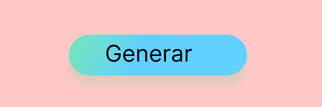
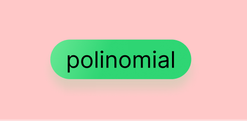
interpolacion changes

Changed region(s): [[0.1984, 0.3084, 0.7935, 0.729]]

diff --git a/interpolacion.py b/interpolacion.py
@@ -1,5 +1,13 @@
 from pathlib import Path
-from tkinter import Tk, Canvas, Entry, Text, Button, PhotoImage, Label
+from tkinter import Tk, Canvas, Entry, Text, Button, PhotoImage
+
+from matplotlib.backends.backend_tkagg import FigureCanvasTkAgg
+from matplotlib.figure import Figure
+import tkinter as tk
+import numpy as np
+import sympy as sp
+from modulos.interpolacion_module import  Poly, Pol_simple_2, minimos_cuadrados, langrange_polinomio
+
 
 class Interpolacion:
     def __init__(self, root: Tk, assets_path: Path):
@@ -9,9 +17,23 @@ class Interpolacion:
         self.root.configure(bg="#FFC7C7")
         self.canvas = self.create_canvas()
         self.images = {}
-        self.buttons = self.create_buttons()
         self.entries = self.create_entries()
+        self.buttons = self.create_buttons()
         self.texts = self.create_texts()
+        self.canvas_images = self.create_images()
+
+        # new
+        self.figure = Figure(figsize=(5, 3), dpi=100)
+        self.figure_canvas = FigureCanvasTkAgg(self.figure, self.root)
+
+        # place the canvas on the right side of the window
+        self.figure_canvas.get_tk_widget().place(x=81, y=320)
+
+        self.canvas_images = self.create_images()
+
+        # text
+        self.solution_label = tk.Label(self.root, text="", bg="#FFC7C7")
+        self.solution_label.place(x=100, y=210)
 
     def create_canvas(self) -> Canvas:
         canvas = Canvas(
@@ -40,10 +62,9 @@ class Interpolacion:
 
     def create_buttons(self):
         buttons = {
-            "button_1": self.create_button("button_1.png", 5.0, 397.0, 322.0, 107.0, lambda: print("button_1 clicked")),
-            "button_2": self.create_button("button_2.png", 7.0, 271.0, 247.0, 121.078125, lambda: print("button_2 clicked")),
-            "button_3": self.create_button("button_3.png", 260.0, 269.0, 247.0, 121.078125, lambda: print("button_3 clicked")),
-            "button_4": self.create_button("button_4.png", 513.0, 266.0, 247.0, 121.078125, lambda: print("button_4 clicked")),
+            "polinomial": self.create_button("button_1.png", 724.0, 91.0, 247.0, 121.078125, self.handlePolinomial),
+            "minimos": self.create_button("button_2.png", 727.0, 243.0, 247.0, 121.078125, self.handleMinimos),
+            "lagrange": self.create_button("button_3.png", 727.0, 390.0, 247.0, 121.078125, self.handleLagrage),
         }
         return buttons
 
@@ -61,23 +82,145 @@ class Interpolacion:
 
     def create_entries(self):
         entries = {
-            "entry_1": self.create_entry("entry_1.png", 369.0, 157.5, 174.0, 31.0),
-            "entry_2": self.create_entry("entry_2.png", 453.0, 233.5, 202.0, 31.0),
+            "entry_1": self.create_entry("entry_1.png", 453.0, 155.5, 202.0, 31.0),
+            "entry_2": self.create_entry("entry_2.png", 190.0, 697.5, 202.0, 31.0),
+            "entry_3": self.create_entry("entry_3.png", 453.0, 233.5, 202.0, 31.0),
         }
         return entries
 
     def create_text(self, x: float, y: float, text: str, font: str) -> None:
-        self.canvas.create_text(x, y, anchor="nw", text=text, fill="#000000", font=(font, 23))
+        self.canvas.create_text(x, y, anchor="nw", text=text, fill="#000000", font=(font, 32 * -1))
 
     def create_texts(self):
         self.create_text(320.0, 25.0, "Interpolacion y ajuste", "InriaSans Regular")
-        self.create_text(25.0, 136.0, "Datos dependientes:", "InriaSans Regular")
-        self.create_text(25.0, 212.0, "Datos independientes:", "InriaSans Regular")
+        self.create_text(81.0, 137.0, "dependientes:", "InriaSans Regular")
+        self.create_text(81.0, 212.0, "independientes:", "InriaSans Regular")
+
+    def create_image(self, image_file: str, x: float, y: float) -> int:
+        image = self.get_image(image_file)
+        return self.canvas.create_image(x, y, image=image)
+
+    def create_images(self):
+        images = {
+            "image_1": self.create_image("image_1.png", 1073.0, 725.0),
+            "image_2": self.create_image("image_2.png", 1096.0, 512.0),
+            "image_3": self.create_image("image_3.png", 1047.0, 106.0),
+            "image_4": self.create_image("image_4.png", 97.0, 30.0),
+            "image_5": self.create_image("image_5.png", 77.0, 796.0),
+        }
+        return images
 
     def get_image(self, image_file: str) -> PhotoImage:
         if image_file not in self.images:
             self.images[image_file] = PhotoImage(file=self.relative_to_assets(image_file))
         return self.images[image_file]
+
+    def handlePolinomial(self):
+        # get the values from the entries
+        x_data_str = self.entries["entry_1"].get("1.0", "end-1c")
+        y_data_str = self.entries["entry_2"].get("1.0", "end-1c")
+
+        # check if the entries are empty or end with a comma
+        # check if the entries are empty or end with a comma
+        if not x_data_str.strip() or not y_data_str.strip() or x_data_str.strip().endswith(
+                ',') or y_data_str.strip().endswith(','):
+            print("Error: Invalid entry")
+            return
+
+        # convert the entries to appropriate types
+        x_data = list(map(float, x_data_str.split(',')))
+        y_data = list(map(float, y_data_str.split(',')))
+
+        # apply the polynomial interpolation method
+        a_i = Pol_simple_2(x_data, y_data)
+
+        # clear the current plot
+        self.figure.clear()
+
+        # prepare data
+        ux = np.linspace(min(x_data), max(x_data), 100)
+        poly_values = Poly(a_i, ux)
+
+        # create axes
+        axes = self.figure.add_subplot()
+
+        # create the plot
+        axes.plot(x_data, y_data, 'vr', label='Datos O')
+        axes.plot(ux, poly_values, 'b', label='Polinomio')
+
+        # draw the graph
+        self.figure_canvas.draw()
+
+    def handleMinimos(self):
+        # get the values from the entries
+        x_data_str = self.entries["entry_1"].get("1.0", "end-1c")
+        y_data_str = self.entries["entry_2"].get("1.0", "end-1c")
+
+        # check if the entries are empty or end with a comma
+        if not x_data_str or not y_data_str or x_data_str.endswith(',') or y_data_str.endswith(','):
+            print("Error: Invalid entry")
+            return
+
+        # convert the entries to appropriate types
+        x_data = list(map(float, x_data_str.split(',')))
+        y_data = list(map(float, y_data_str.split(',')))
+
+        # apply the least squares method
+        a0, a1 = minimos_cuadrados(np.array(x_data), np.array(y_data))
+
+        # clear the current plot
+        self.figure.clear()
+
+        # prepare data
+        ux = np.linspace(min(x_data), max(x_data), 100)
+        poly_values = a0 + a1 * ux
+
+        # create axes
+        axes = self.figure.add_subplot()
+
+        # create the plot
+        axes.plot(x_data, y_data, 'vr', label='Datos O')
+        axes.plot(ux, poly_values, 'b', label='Ajuste lineal')
+
+        # draw the graph
+        self.figure_canvas.draw()
+
+    def handleLagrage(self):
+        # get the values from the entries
+        x_data_str = self.entries["entry_1"].get("1.0", "end-1c")
+        y_data_str = self.entries["entry_2"].get("1.0", "end-1c")
+
+        # check if the entries are empty or end with a comma
+        if not x_data_str or not y_data_str or x_data_str.endswith(',') or y_data_str.endswith(','):
+            print("Error: Invalid entry")
+            return
+
+        # convert the entries to appropriate types
+        x_data = list(map(float, x_data_str.split(',')))
+        y_data = list(map(float, y_data_str.split(',')))
+
+        # construct the Lagrange interpolating polynomial
+        P = langrange_polinomio(x_data, y_data)
+        P_lambdified = sp.lambdify('x', P)
+
+        # clear the current plot
+        self.figure.clear()
+
+        # prepare data
+        ux = np.linspace(min(x_data), max(x_data), 100)
+        poly_values = P_lambdified(ux)
+
+        # create axes
+        axes = self.figure.add_subplot()
+
+        # create the plot
+        axes.plot(x_data, y_data, 'vr', label='Datos O')
+        axes.plot(ux, poly_values, 'b', label='Polinomio de Lagrange')
+
+        # draw the graph
+        self.figure_canvas.draw()
+
+
 
     def relative_to_assets(self, path: str) -> Path:
         return self.assets_path / Path(path)

diff --git a/ceros.py b/ceros.py
@@ -7,6 +7,8 @@ import numpy as np
 import sympy as sp
 from modulos.ceros_module import biseccion
 from modulos.ceros_module import newton
+from modulos.ceros_module import posicion_falsa
+from modulos.ceros_module import secante
 import tkinter as tk
 
 class Ceros:
@@ -66,8 +68,8 @@ class Ceros:
 
             "biseccion": self.create_button("button_2.png", 590.0, 71.0, 319.0, 128.0, self.handleBiseccion),
             "newton": self.create_button("button_3.png", 590.0, 208.0, 319.0, 128.0, self.handleNewton),
-            "falsa_posicion": self.create_button("button_4.png", 590.0, 345.0, 319.0, 128.0, lambda: print("falsa_posicion clicked")),
-            "secante": self.create_button("button_5.png", 590.0, 482.0, 319.0, 128.0, lambda: print("secante clicked")),
+            "falsa_posicion": self.create_button("button_4.png", 590.0, 345.0, 319.0, 128.0, self.handleFalsaPosicion),
+            "secante": self.create_button("button_5.png", 590.0, 482.0, 319.0, 128.0, self.handleSecante),
         }
         return buttons
 
@@ -215,14 +217,108 @@ class Ceros:
         axes.scatter([root_newton], [F(root_newton)], color='red')
         axes.legend()
 
+        axes.axhline(0, color='black', linewidth=0.5)
+        axes.axvline(0, color='black', linewidth=0.5)
+
         # draw the graph
         self.figure_canvas.draw()
 
+        # update the polynomial label
+        self.solution_label.config(text=str(root_newton))
+
     def handleFalsaPosicion(self):
-        pass
+        # get the values from the entries
+        a_str = self.entries["entry_1"].get("1.0", "end-1c")
+        f_str = self.entries["entry_2"].get("1.0", "end-1c")
+        b_str = self.entries["entry_3"].get("1.0", "end-1c")
+
+        # check if the entries are empty
+        if not a_str or not f_str or not b_str:
+            print("Error: One or more entries are empty")
+            return
+
+        # convert the entries to appropriate types
+        a = float(a_str)
+        b = float(b_str)
+
+        # parse the function string to a sympy expression
+        x = sp.symbols("x")
+        f = sp.sympify(f_str)
+        f_lambda = sp.lambdify(x, f)
+
+        # apply the false position method
+        tol = 1e-3  # tolerance
+        root_falsa_posicion = posicion_falsa(f_lambda, a, b, tol)
+
+        # clear the current plot
+        self.figure.clear()
+
+        # prepare data
+        w = np.linspace(a - 5, a + 5, 100)
+
+        # create axes
+        axes = self.figure.add_subplot()
+
+        # create the plot
+        axes.plot(w, f_lambda(w), label="Function")
+        axes.scatter([root_falsa_posicion], [f_lambda(root_falsa_posicion)], color='red')
+        axes.legend()
+
+        axes.axhline(0, color='black', linewidth=0.5)
+        axes.axvline(0, color='black', linewidth=0.5)
+
+        # draw the graph
+        self.figure_canvas.draw()
+
+        # update the polynomial label
+        self.solution_label.config(text=str(root_falsa_posicion))
 
     def handleSecante(self):
-        pass
+        # get the values from the entries
+        h0_str = self.entries["entry_1"].get("1.0", "end-1c")
+        f_str = self.entries["entry_2"].get("1.0", "end-1c")
+        h1_str = self.entries["entry_3"].get("1.0", "end-1c")
+
+        # check if the entries are empty
+        if not h0_str or not f_str or not h1_str:
+            print("Error: One or more entries are empty")
+            return
+
+        # convert the entries to appropriate types
+        h0 = float(h0_str)
+        h1 = float(h1_str)
+
+        # parse the function string to a sympy expression
+        x = sp.symbols("x")
+        f = sp.sympify(f_str)
+        f_lambda = sp.lambdify(x, f)
+
+        # apply the secant method
+        tol = 1e-6  # tolerance
+        root_secante = secante(f_lambda, h0, h1, tol)
+
+        # clear the current plot
+        self.figure.clear()
+
+        # prepare data
+        w = np.linspace(h0 - 5, h0 + 5, 100)
+
+        # create axes
+        axes = self.figure.add_subplot()
+
+        # create the plot
+        axes.plot(w, f_lambda(w), label="Function")
+        axes.scatter([root_secante], [f_lambda(root_secante)], color='red')
+        axes.legend()
+
+        axes.axhline(0, color='black', linewidth=0.5)
+        axes.axvline(0, color='black', linewidth=0.5)
+
+        # draw the graph
+        self.figure_canvas.draw()
+
+        # update the polynomial label
+        self.solution_label.config(text=str(root_secante))
 
     def run(self):
         self.root.resizable(False, False)

diff --git a/modulos/ceros_module.py b/modulos/ceros_module.py
@@ -43,6 +43,7 @@ def posicion_falsa(f, a, b, tol):
     return c
 
 
+
 def secante(f, h0, h1, tol):
     h = [h0, h1]
 
@@ -53,6 +54,8 @@ def secante(f, h0, h1, tol):
         print(h[-1])
 
     return h[-1]
+
+
 
 
 def newton(f, x0, tol, variable = None):
@@ -71,3 +74,4 @@ def newton(f, x0, tol, variable = None):
             break
 
     return xv[-1]
+
